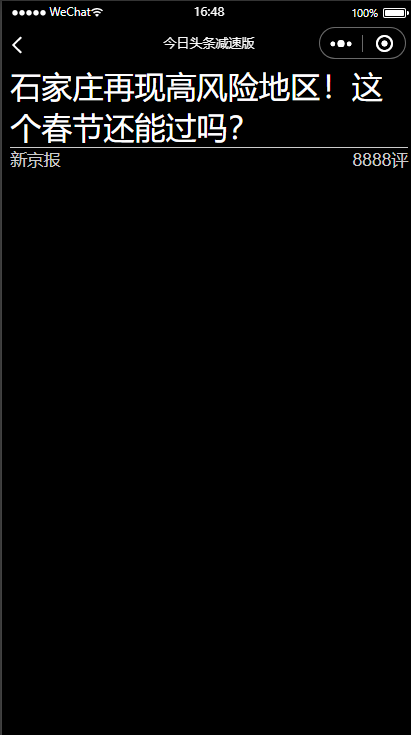
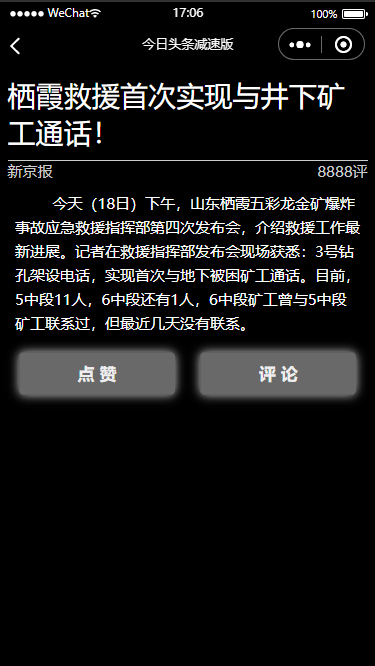
update

Changed region(s): [[0.0, 0.0, 0.9973, 1.0]]

diff --git a/pages/info/info.js b/pages/info/info.js
@@ -2,24 +2,29 @@
 
 const listData = [
 	{
-		id:1,title:"石家庄再现高风险地区！这个春节还能过吗？",
-		url:"../../assent/list/1.jpg",author:"新京报",num:8888
+		id:1,title:"栖霞救援首次实现与井下矿工通话！",
+		url:"../../assent/list/1.jpg",author:"新京报",num:8888,
+		content:"今天（18日）下午，山东栖霞五彩龙金矿爆炸事故应急救援指挥部第四次发布会，介绍救援工作最新进展。记者在救援指挥部发布会现场获悉：3号钻孔架设电话，实现首次与地下被困矿工通话。目前，5中段11人，6中段还有1人，6中段矿工曾与5中段矿工联系过，但最近几天没有联系。"
 	},
 	{
 		id:2,title:"河北新增14例本土确诊和30例无症状",
-		url:"../../assent/list/2.jpg",author:"中国新闻网",num:100000
+		url:"../../assent/list/2.jpg",author:"中国新闻网",num:100000,
+		content:"据央视新闻消息，今天0时至12时，石家庄市新增14例新冠肺炎本土确诊病例。分布情况是：藁城区9例，新乐市2例，正定县1例，裕华区1例，长安区1例；新增无症状感染者1例，在藁城区。1月2日至1月18日12时，石家庄全市累计报告本土确诊病例745例，现有本土确诊病例732例，现有本土无症状感染者190例。"
 	},
 	{
-		id:3,title:"拼多多知乎账号被禁言15天",
-		url:"../../assent/list/3.jpg",author:"36氪",num:8888
+		id:3,title:"湖南高院一法官被同乡杀害 犯罪嫌疑人被批准逮捕",
+		url:"../../assent/list/3.jpg",author:"36氪",num:8888,
+		content:"中新网1月18日电 据湖南省长沙市人民检察院官方微信消息，1月18日，长沙市人民检察院依法以涉嫌故意杀人罪对湖南省高级人民法院法官周某某遇害案犯罪嫌疑人向某批准逮捕。检察机关经审查查明，犯罪嫌疑人向某与被害人周某某系同乡和校友。向某因与原单位劳动争议纠纷向法院提起诉讼，多次请周某某向办案法官打招呼以达到胜诉目的，均被周某某拒绝。2020年9月7日，向某以看望周某某小孩为名到周家放下一盒水果即走。周发现水果盒中夹了2万元人民币及一个金手镯，多次要求向某取回，向某拒绝。9月10日，周某某在同事的陪同下到向某住所外将物品退还。后向某收到法院依法驳回其再审申请的裁判文书，遂心生怨恨，起意报复。2021年1月4日，向某为方便接近周某某并伺机报复，特意来到周某某居住的小区应聘为保洁员。1月12日上午7时许，向某借周某某进入小区地下车库之机，用随身携带的尖刀朝周某某连刺数刀致其死亡。事发后，民警赶到现场将向某抓获。案发当日，长沙市人民检察院依法介入该案，引导侦查，收集、固定证据。1月15日，长沙市公安局将该案提请检察机关审查逮捕。长沙市人民检察院审查认为：犯罪嫌疑人向某的行为涉嫌故意杀人罪，符合逮捕条件，依法对向某作出批准逮捕决定。目前案件正在进一步侦查中，检察机关将依法从严追诉。"
 	},
 	{
-		id:4,title:"虾米音乐宣布2月5日关停",
-		url:"../../assent/list/2.jpg",author:"新京报",num:8888
+		id:4,title:"栖霞金矿救援首次与井下矿工通话；山东已启动事故调查",
+		url:"../../assent/list/2.jpg",author:"新京报",num:8888,
+		content:"发布会现场，烟台市委副书记、市长陈飞介绍：“前期救援主要认真贯彻落实中央领导批示，坚持人民至上生命至上。在全国救援专业力量队伍的有力支援下，现场迅速集结了最优秀的专家和最专业的力量以及最先进的装备，高效有序地开展好救援。专家队伍方面，成立了由应急管理部矿山救援中心、北京矿业集团中煤第五建设有限公司、山东黄金集团、山东能源胜利油田等单位的30多人组成的专家团队，这些专家都有丰富的矿山救援经验。”目前已同步启动事故调查工作，由山东省应急厅牵头组成事故调查组，将严格依纪依法依规开展事故调查，绝对不会让任何一个细节漏掉，绝对不会让任何一个责任人漏掉！"
 	},
 	{
-		id:5,title:"推特宣布永久移除特朗普账号",
-		url:"../../assent/list/1.jpg",author:"新京报",num:1000000
+		id:5,title:"三星掌门人李在镕获刑2年半",
+		url:"../../assent/list/1.jpg",author:"新京报",num:1000000,
+		content:"海外网1月18日电据韩联社报道，当地时间18日下午，韩国首尔高等法院对李在镕“亲信干政”案二审重审宣判，判处其2年零6个月有期徒刑，李在镕当庭被捕。此前检方要求法院判处9年。李在镕现年52岁，是三星电子副会长、三星集团实际掌门人。根据检方指控，2017年2月，李在镕涉嫌向韩国前总统朴槿惠和崔顺实行贿，以助其继承经营权，行贿金额高达298亿韩元（约合人民币1.75亿元）。一审法院认定李在镕的部分行贿罪成立，并判处有期徒刑5年，二审法院则作出有期徒刑2年半、缓刑4年的判决。李在镕当庭获释。2019年8月，韩国最高法院在终审判决中，撤销二审法院对李在镕和其他涉案人朴槿惠、崔顺实所作的判决，将该案发回首尔高等法院重审。（海外网 刘强）"
 	}
 ];
 

diff --git a/pages/board/board.js b/pages/board/board.js
@@ -3,7 +3,7 @@
 // 声明假数据
 const listData = [
 	{
-		id:1,title:"石家庄再现高风险地区！这个春节还能过吗？",
+		id:1,title:"栖霞救援首次实现与井下矿工通话！",
 		url:"../../assent/list/1.jpg",author:"新京报",num:8888
 	},
 	{
@@ -11,19 +11,18 @@ const listData = [
 		url:"../../assent/list/2.jpg",author:"中国新闻网",num:100000
 	},
 	{
-		id:3,title:"拼多多知乎账号被禁言15天",
+		id:3,title:"湖南高院一法官被同乡杀害 犯罪嫌疑人被批准逮捕",
 		url:"../../assent/list/3.jpg",author:"36氪",num:8888
 	},
 	{
-		id:4,title:"虾米音乐宣布2月5日关停",
+		id:4,title:"栖霞金矿救援首次与井下矿工通话；山东已启动事故调查",
 		url:"../../assent/list/2.jpg",author:"新京报",num:8888
 	},
 	{
-		id:5,title:"石家庄再现高风险地区！这个春节还能过吗？",
-		url:"../../assent/list/1.jpg",author:"新京报",num:8888
+		id:5,title:"三星掌门人李在镕获刑2年半",
+		url:"../../assent/list/1.jpg",author:"新京报",num:1000000
 	}
 ];
-
 Page({
 
   /**
